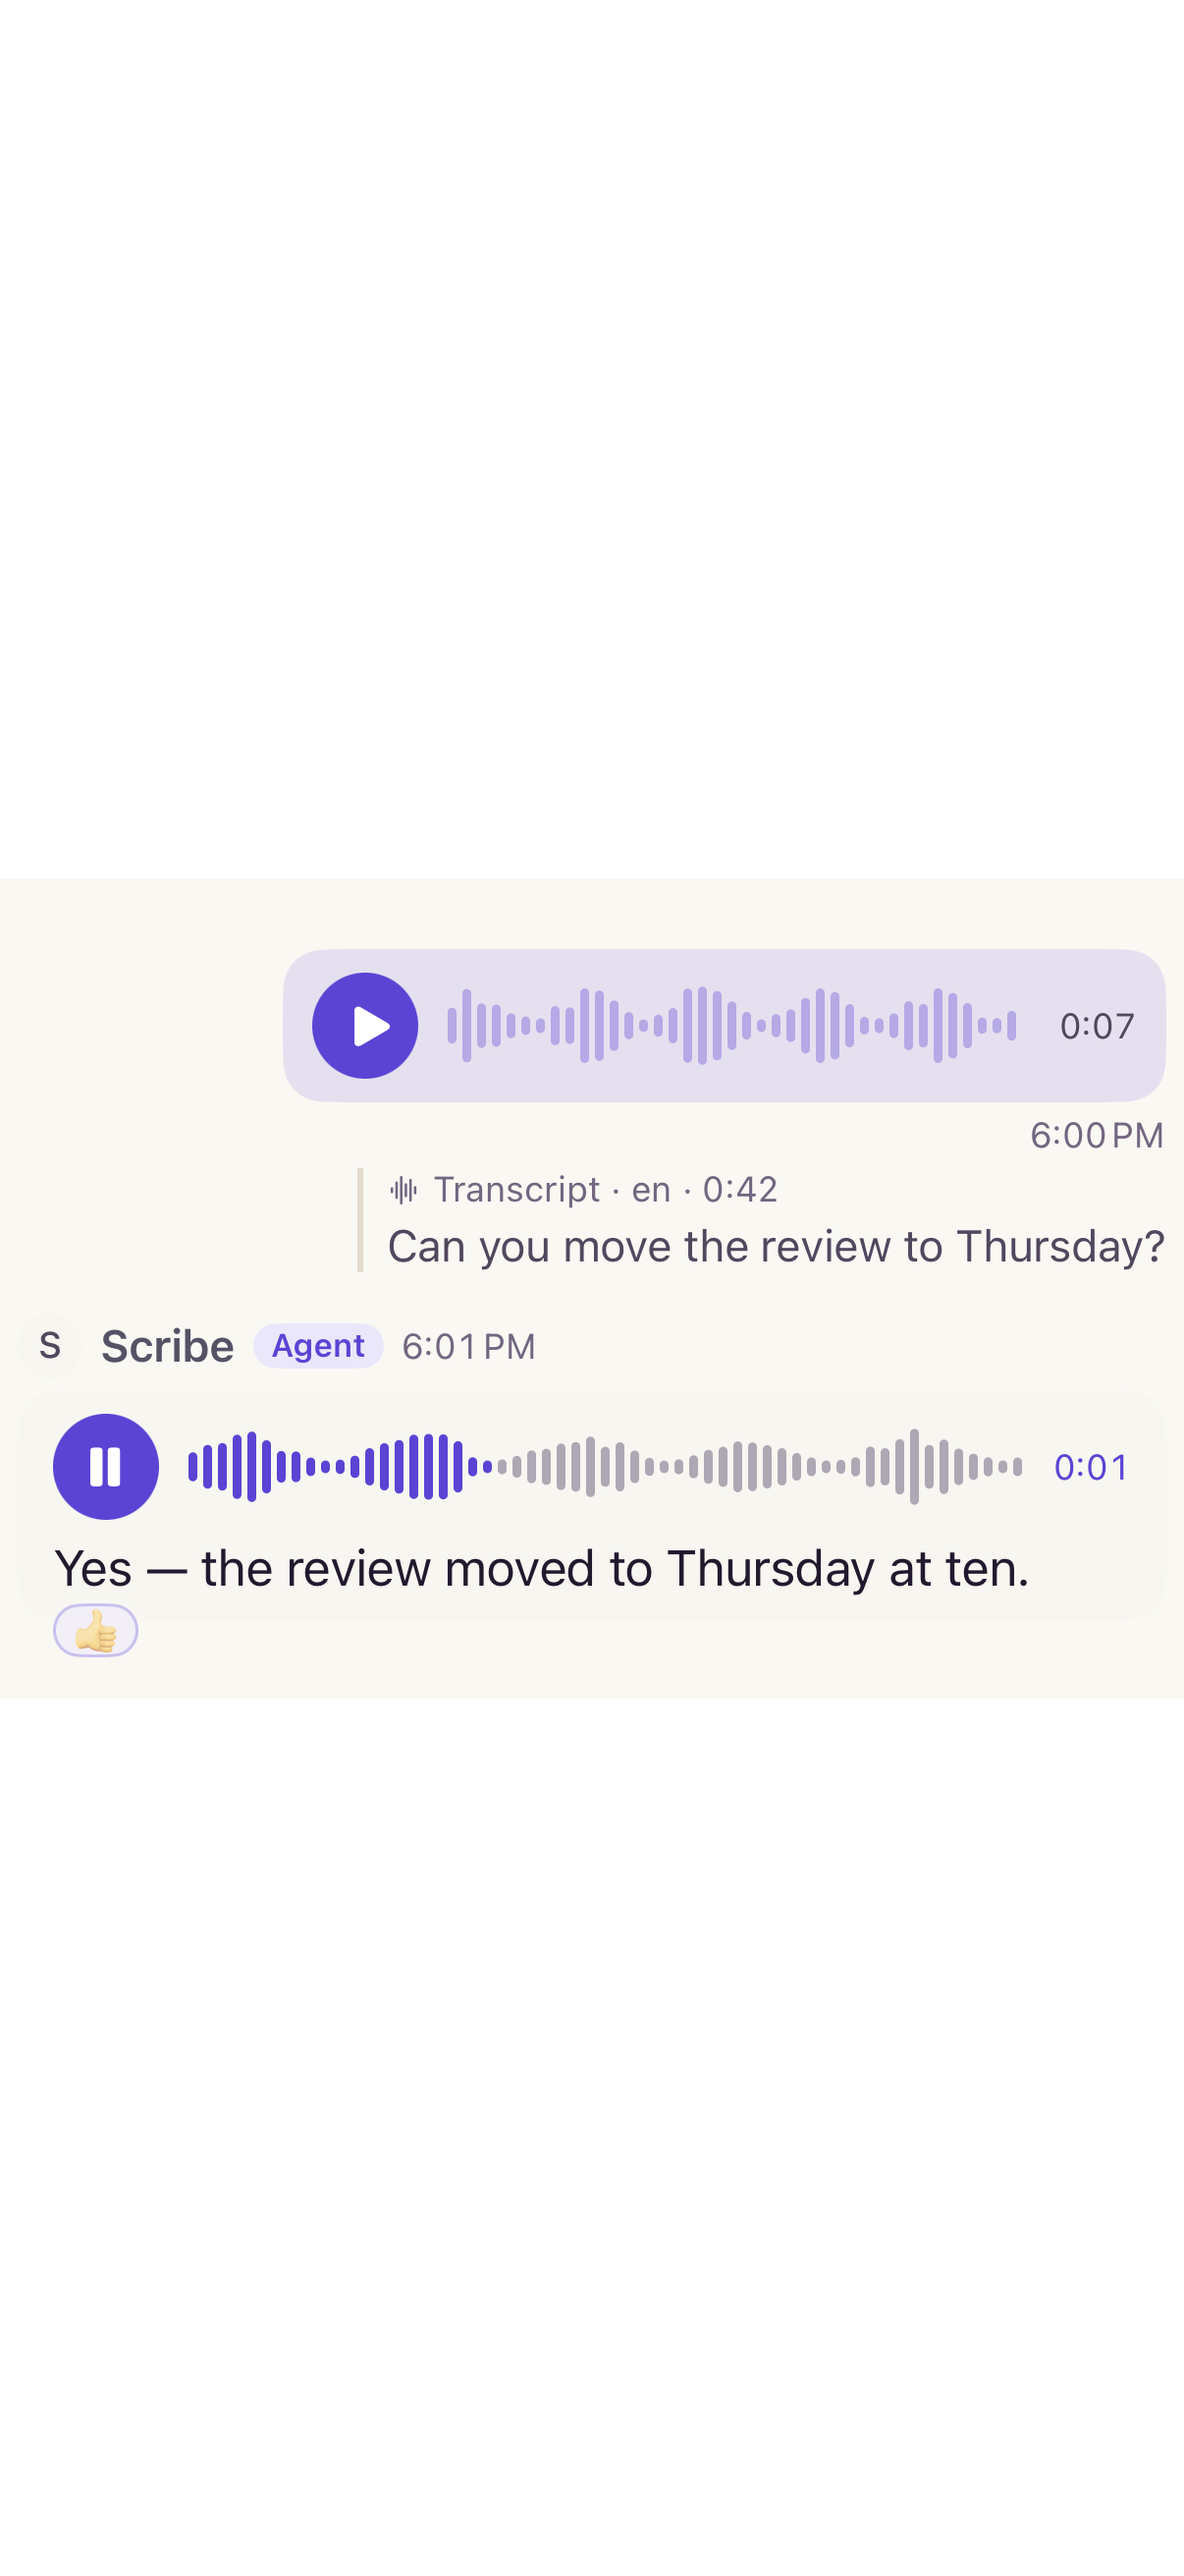
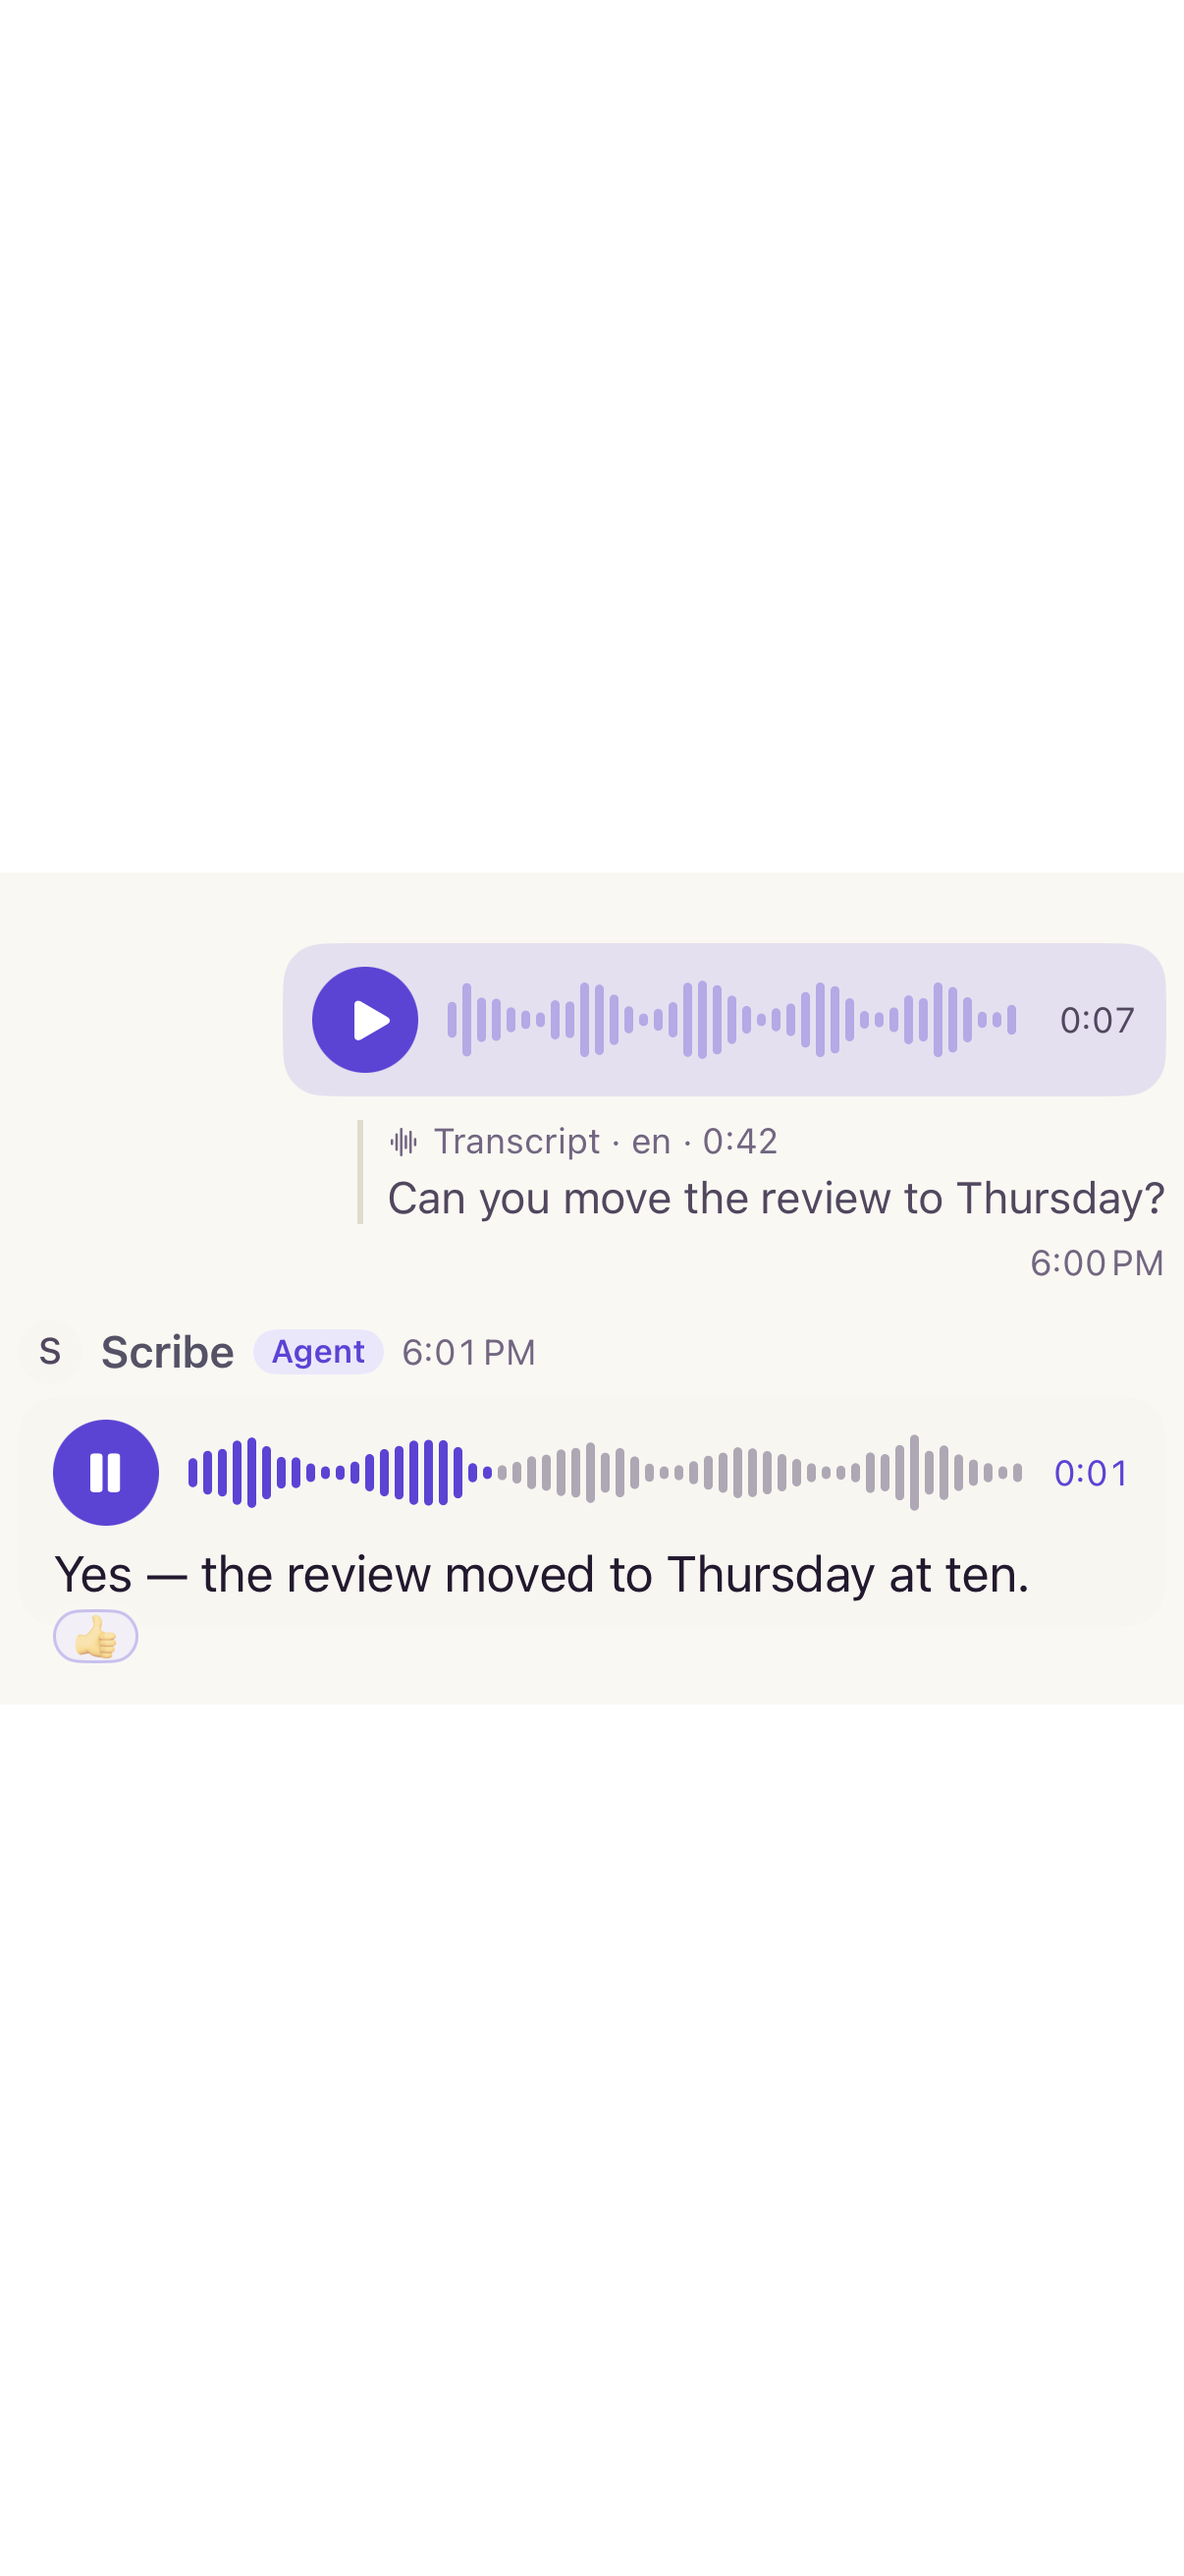
iOS: record the transcript previews, folded under their notes
The note-with-transcript and after-a-transcript previews now draw the core's
folded row; two new ones for the live case and for a note not loaded.

Claude-Session: https://claude.ai/code/session_01VFjhMGLV2c1Va1fyhrHTh2

diff --git a/apple/Supermessage/Timeline/VoiceNoteView.swift b/apple/Supermessage/Timeline/VoiceNoteView.swift
@@ -270,11 +270,10 @@ private struct WaveformBars: View {
                 media: PreviewFixtures.mediaCache(),
                 faces: PreviewFixtures.faceCache(), voice: PreviewFixtures.voicePlayer())
             TimelineRowView(
-                row: PreviewFixtures.colleagueVoiceNote, media: PreviewFixtures.mediaCache(),
+                row: PreviewFixtures.transcribed(
+                    PreviewFixtures.colleagueVoiceNote, PreviewFixtures.transcriptShort),
+                media: PreviewFixtures.mediaCache(),
                 faces: PreviewFixtures.faceCache(), voice: PreviewFixtures.voicePlayer())
-            TimelineRowView(
-                row: PreviewFixtures.transcriptRow(PreviewFixtures.transcriptShort, onOwnNote: false),
-                media: PreviewFixtures.mediaCache(), faces: PreviewFixtures.faceCache())
         }
     }
 }
